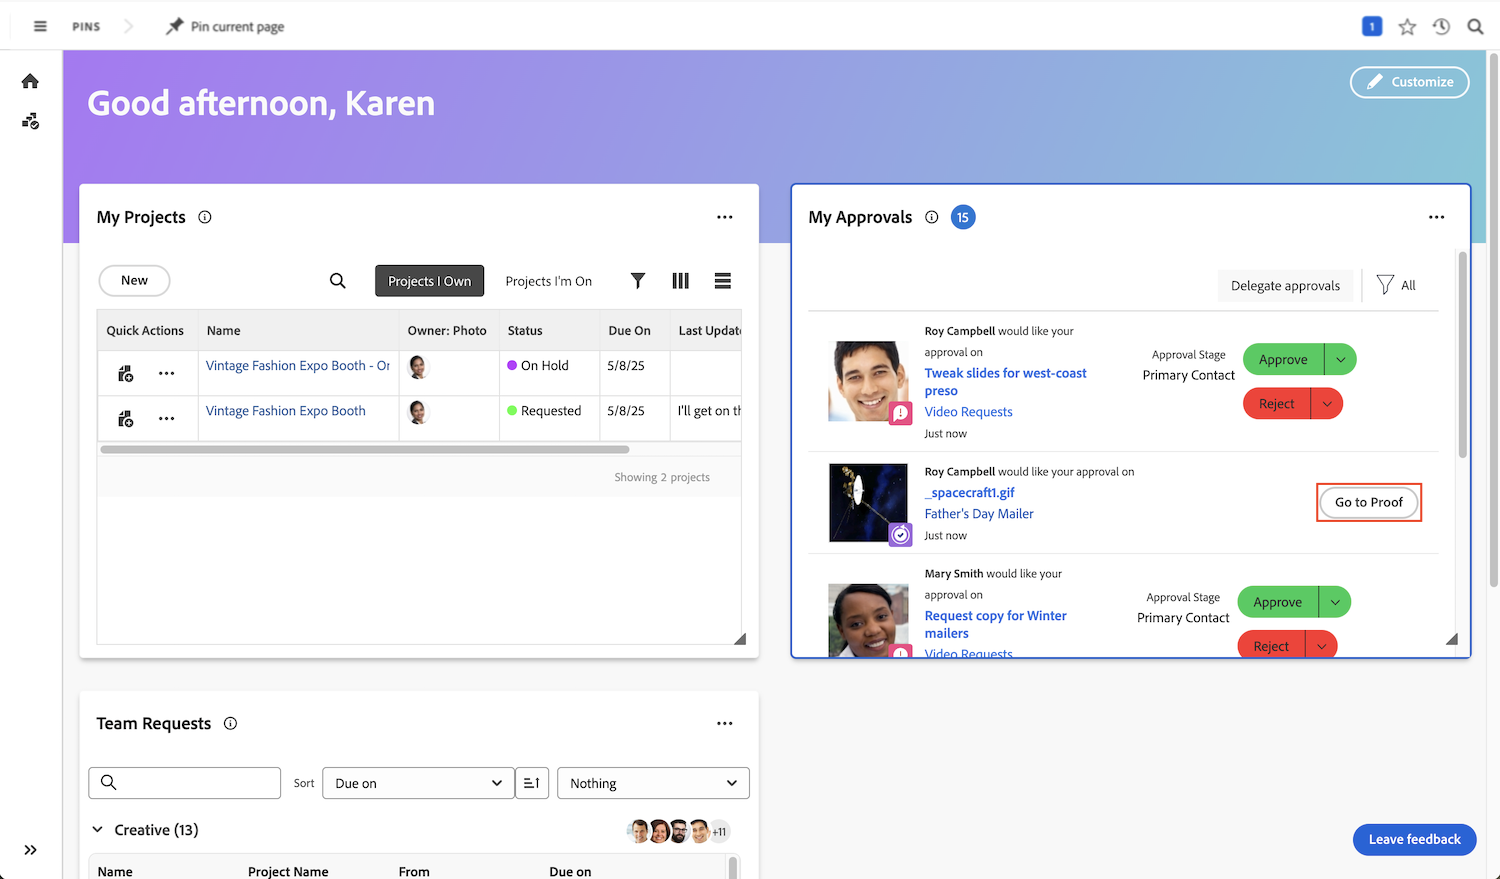
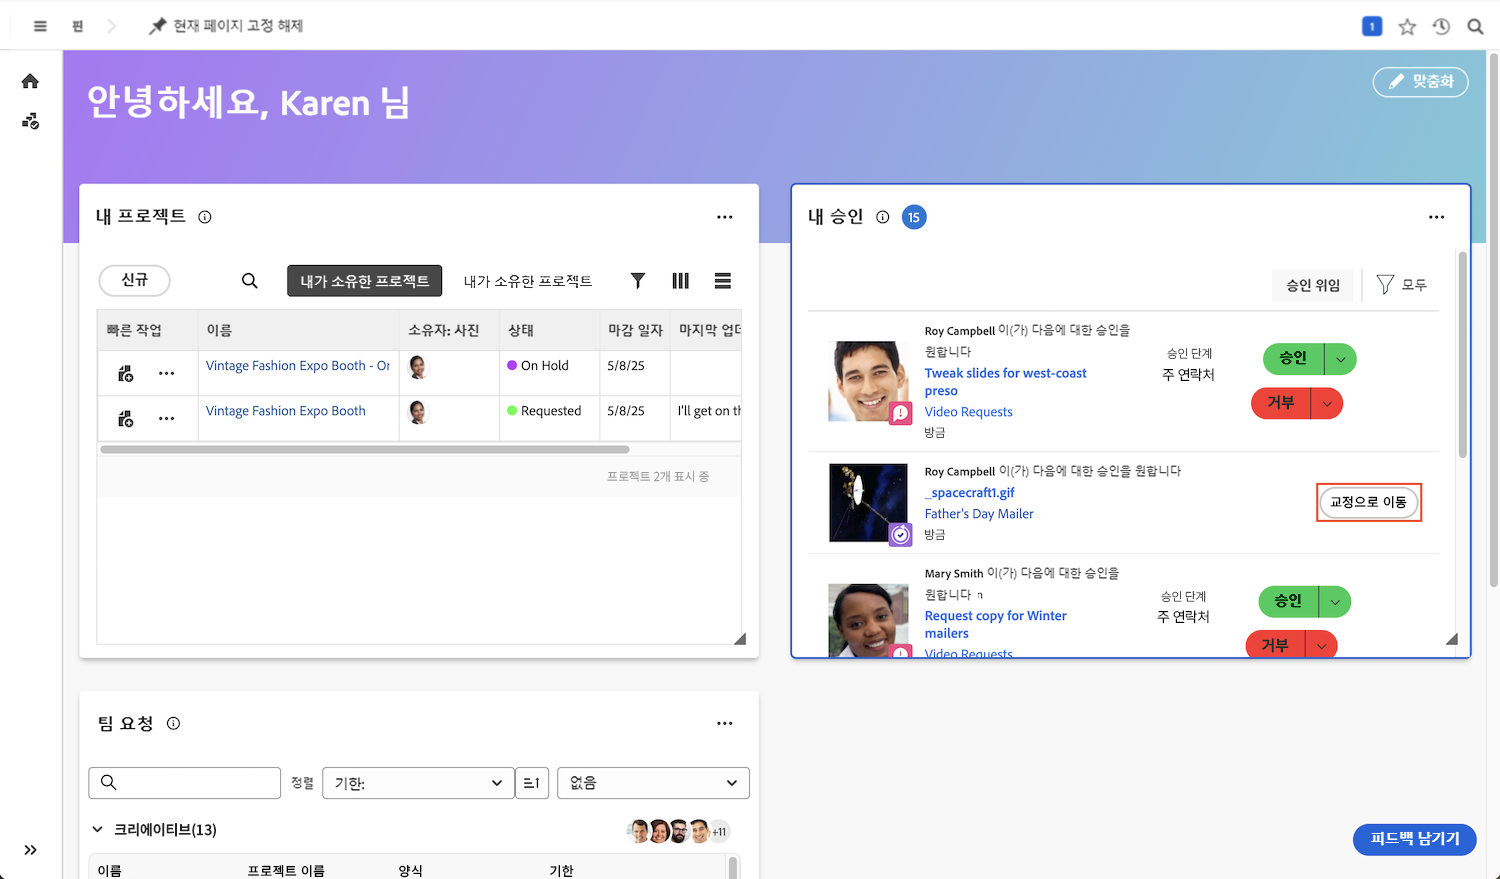
Updated by task 'AUTO_HANDOFF_1740431742886'  Changes for core/source commit https://git.corp.adobe.com/AdobeDocs/workfront-learn.en/commit/a64a8cd80e912f54fecae267fc94d3190d9fb85c

diff --git a/help/workfront-proof/review-and-approve-work/review-and-approve-a-proof.md b/help/workfront-proof/review-and-approve-work/review-and-approve-a-proof.md
@@ -12,9 +12,9 @@ jira: KT-8841
 exl-id: fd6e008c-a162-49fa-9f7e-ab7333165dad
 doc-type: video
 source-git-commit: 697957807d4ca95bb4e5ab79f24f5e31252585c3
-workflow-type: tm+mt
+workflow-type: ht
 source-wordcount: '727'
-ht-degree: 91%
+ht-degree: 100%
 
 ---
 
@@ -47,13 +47,13 @@ ht-degree: 91%
 
 ### [!UICONTROL 홈]에서 교정쇄 열기
 
-[!DNL Workfront]에서 작업 중이며 증명 승인 요청을 받은 경우 [!DNL Workfront] [!UICONTROL Home]의 [!UICONTROL 내 승인] 위젯에서 할당을 찾을 수 있습니다.
+[!DNL Workfront]에서 작업하는 동안 교정쇄를 승인해 달라는 요청을 받은 경우, [!DNL Workfront] [!UICONTROL 홈]의 [!UICONTROL 내 승인] 위젯에서 할당을 찾을 수 있습니다.
 
-![[!DNL Workfront] [!UICONTROL Home]의 [!UICONTROL 내 승인] 위젯의 이미지](assets/open-proof-from-home.png)
+![[!DNL Workfront] [!UICONTROL 홈]의 [!UICONTROL 내 승인] 위젯 이미지.](assets/open-proof-from-home.png)
 
-승인하도록 할당된 경우에만 [!DNL Workfront] [!UICONTROL 홈]에 교정쇄가 표시된다는 점에 유의해야 합니다. 방금 증명 검토만 요청받았으면 [!DNL Workfront] [!UICONTROL Home]에 표시되지 않습니다.
+승인하도록 할당된 경우에만 [!DNL Workfront] [!UICONTROL 홈]에 교정쇄가 표시된다는 점에 유의해야 합니다. 교정본만 검토해 달라는 요청을 받은 경우에는 [!DNL Workfront] [!UICONTROL 홈]에 표시되지 않습니다.
 
-[!UICONTROL 증명으로 이동] 링크를 클릭하여 증명 뷰어로 엽니다.
+[!UICONTROL 교정쇄로 이동] 링크를 클릭하여 교정쇄 뷰어에서 이를 여십시오.
 
 조직의 교정쇄 및 프로젝트 워크플로에 따라 교정쇄 승인 요청 대신 [!DNL Workfront] [!UICONTROL 홈]에서 작업 할당을 볼 수 있습니다. 이 경우 작업 자체의 [!UICONTROL 문서] 섹션에서 교정쇄를 엽니다(자세한 내용은 아래 참조).
 

diff --git a/help/portfolios-and-programs/prioritize-and-manage-work-with-portfolios.md b/help/portfolios-and-programs/prioritize-and-manage-work-with-portfolios.md
@@ -1,6 +1,6 @@
 ---
 title: '[!UICONTROL 포트폴리오 최적화 도구]를 사용하여 업무 우선 순위 지정 및 업무 관리'
-description: '[!UICONTROL Portfolio Optimizer]을(를) 사용하여 포트폴리오 내에서 프로젝트를 비교하고 우선 순위를 매기는 방법에 대해 알아봅니다.'
+description: '[!UICONTROL 포트폴리오 최적화 도구]를 사용하여 포트폴리오 내에서 프로젝트를 비교하고 우선순위를 지정하는 방법을 알아봅니다.'
 activity: use
 team: Technical Marketing
 feature: Strategic Planning
@@ -13,9 +13,9 @@ role: User
 level: Intermediate
 exl-id: b8b91ae8-f0e1-4cab-bf2c-6b8ca9746ea3
 source-git-commit: adb11deb325b2537dabeb80461f8c9ecd059e003
-workflow-type: tm+mt
+workflow-type: ht
 source-wordcount: '75'
-ht-degree: 49%
+ht-degree: 100%
 
 ---
 
@@ -23,9 +23,9 @@ ht-degree: 49%
 
 이 비디오에서는 다음 방법을 배우게 됩니다.
 
-* 승인 및 우선 순위를 위한 비즈니스 사례 제출
-* [!UICONTROL Portfolio 최적화 도구]를 사용하여 우선 순위 최적화
-* 프로젝트에서 포트폴리오 우선 순위 필드 설정 및 보기
+* 승인 및 우선순위 지정을 위해 비즈니스 사례 제출
+* [!UICONTROL 포트폴리오 최적화 도구]를 사용하여 우선순위 최적화
+* 프로젝트에서 포트폴리오 우선순위 필드 설정 및 조회
 
 >[!VIDEO](https://video.tv.adobe.com/v/3446275/?quality=12&learn=on&enablevpops)
 
